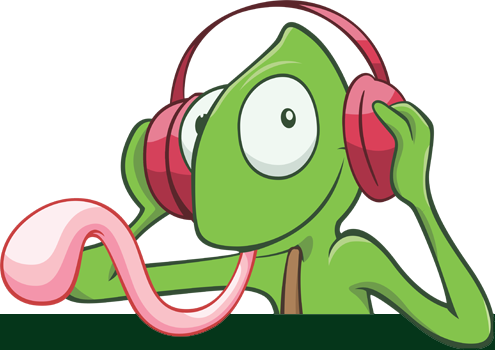
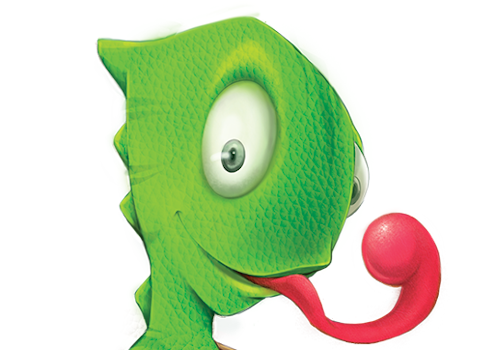
Novo estilo

diff --git a/public/css/style.css b/public/css/style.css
@@ -1,5 +1,5 @@
 body{
-    background-color:#56375e;
+    background-color:#563759;
 }
 .mascote-sizing{
     width: 61vh;
